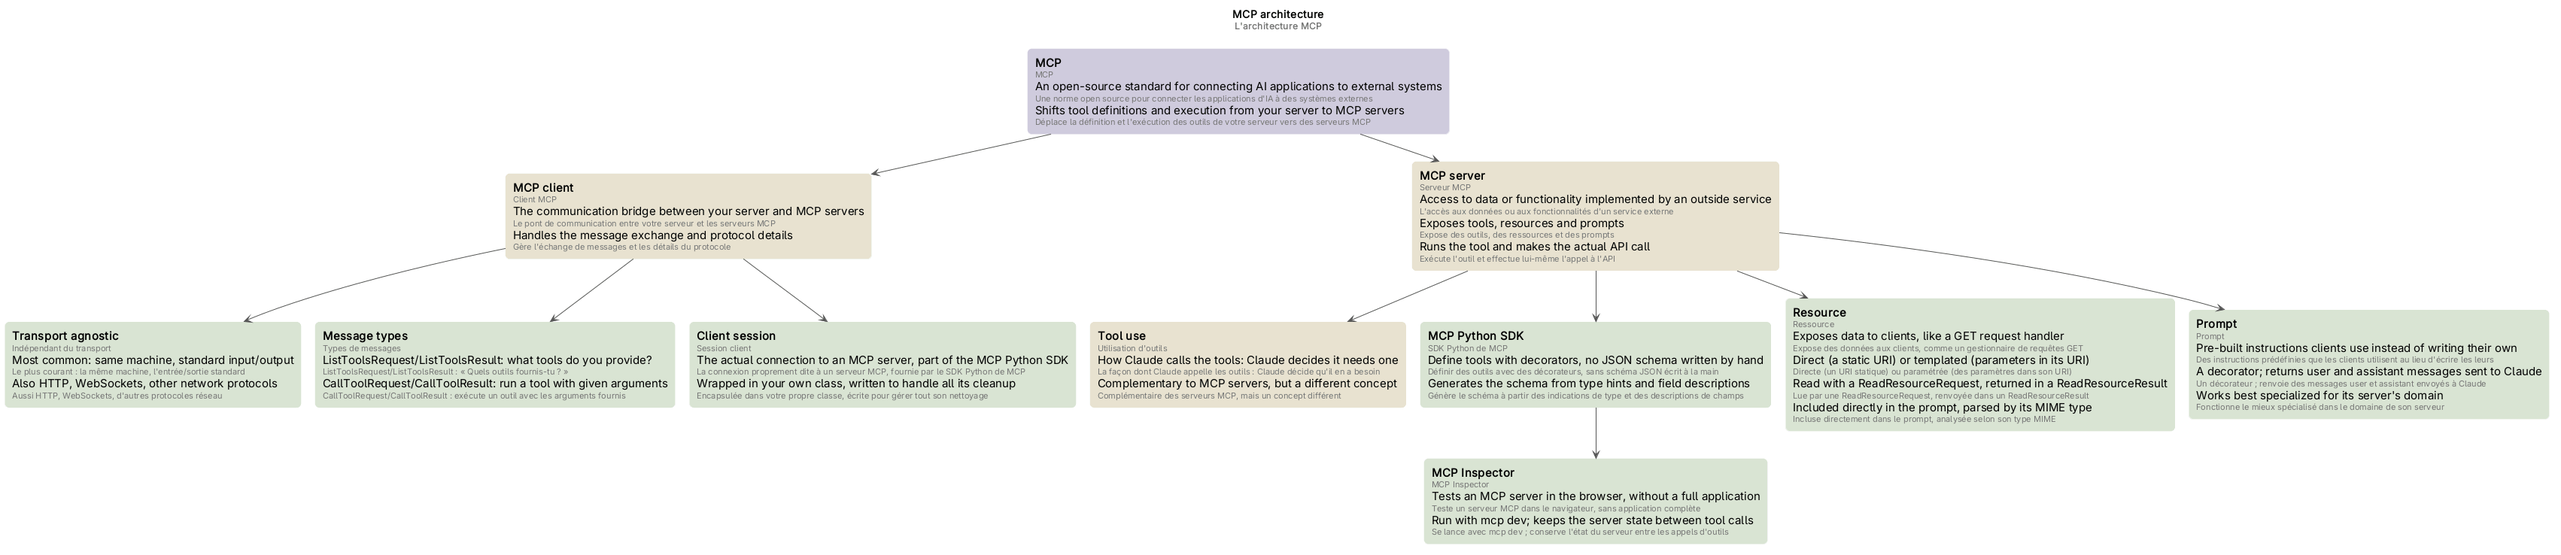
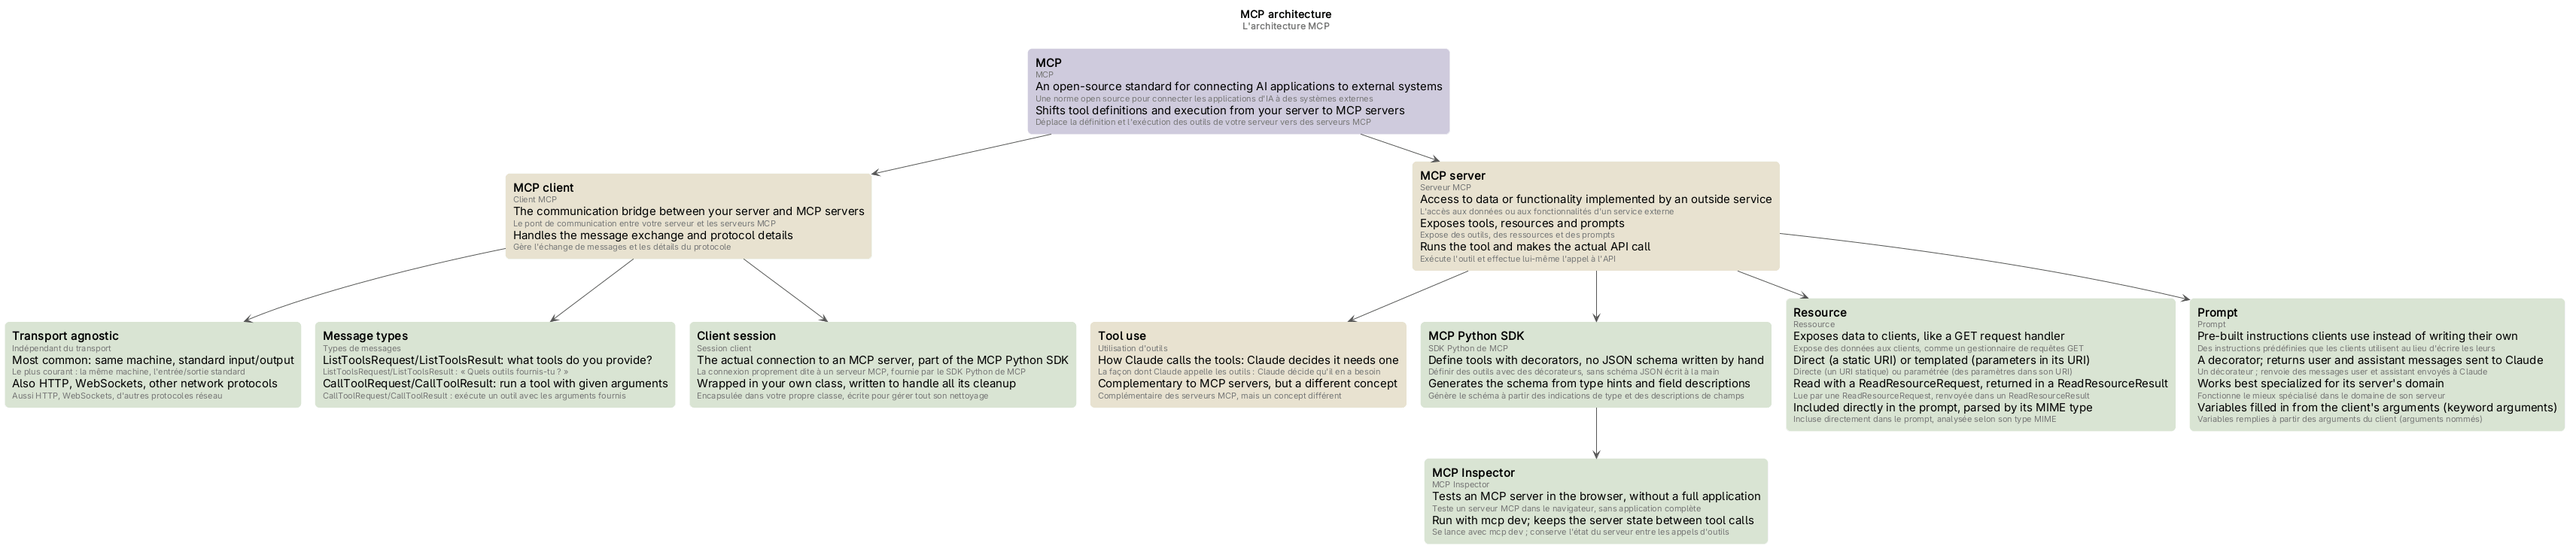
docs: course 08, prompts in the client

diff --git a/08-introduction-to-model-context-protocol/index.md b/08-introduction-to-model-context-protocol/index.md
@@ -46,7 +46,7 @@ One of the three basic components of an [MCP server](#mcp-server-serveur-mcp): r
 
 ### Prompt *(Prompt)*
 
-One of the three basic components of an [MCP server](#mcp-server-serveur-mcp): prompts provide pre-built instructions to language models, for pre-defined workflows. Specialized prompts are the page's example of the workflows an AI application can connect to through [MCP](#mcp-mcp). Prompts in MCP servers let you define pre-built, high-quality instructions that clients can use instead of writing their own prompts from scratch: carefully crafted templates that give better results than what users might come up with on their own. Users can already ask Claude to do most tasks directly, but they get much better results from a thoroughly tested, specialized prompt that handles edge cases and follows best practices: as the MCP server author, you can spend time crafting, testing and evaluating prompts that work consistently across different scenarios, and users benefit from this expertise without having to become prompt engineering experts. With the [MCP Python SDK](#mcp-python-sdk-sdk-python-de-mcp), prompts use a [decorator](#decorator-décorateur) pattern similar to tools and resources, `@mcp.prompt(…)`, with a name and, optionally, a description; the function returns a list of messages that get sent directly to Claude, and can include multiple user and assistant messages to create more complex conversation flows. The [MCP Inspector](#mcp-inspector-mcp-inspector) shows exactly what messages will be sent to Claude, including how variables get interpolated into the prompt template, before users start relying on it. Key benefits: consistency (users get reliable results every time), expertise (domain knowledge encoded into prompts), reusability (multiple client applications can use the same prompts), maintenance (update prompts in one place to improve all clients). Prompts work best when they are specialized for your MCP server's domain: a document management server might have prompts for formatting, summarizing or analyzing documents. The course's example: a format command, `/format doc_id`, whose pre-built prompt has Claude read a document and rewrite it in Markdown.
+One of the three basic components of an [MCP server](#mcp-server-serveur-mcp): prompts provide pre-built instructions to language models, for pre-defined workflows. Specialized prompts are the page's example of the workflows an AI application can connect to through [MCP](#mcp-mcp). Prompts in MCP servers let you define pre-built, high-quality instructions that clients can use instead of writing their own prompts from scratch: carefully crafted templates that give better results than what users might come up with on their own. Users can already ask Claude to do most tasks directly, but they get much better results from a thoroughly tested, specialized prompt that handles edge cases and follows best practices: as the MCP server author, you can spend time crafting, testing and evaluating prompts that work consistently across different scenarios, and users benefit from this expertise without having to become prompt engineering experts. With the [MCP Python SDK](#mcp-python-sdk-sdk-python-de-mcp), prompts use a [decorator](#decorator-décorateur) pattern similar to tools and resources, `@mcp.prompt(…)`, with a name and, optionally, a description; the function returns a list of messages that get sent directly to Claude, and can include multiple user and assistant messages to create more complex conversation flows. The [MCP Inspector](#mcp-inspector-mcp-inspector) shows exactly what messages will be sent to Claude, including how variables get interpolated into the prompt template, before users start relying on it. Key benefits: consistency (users get reliable results every time), expertise (domain knowledge encoded into prompts), reusability (multiple client applications can use the same prompts), maintenance (update prompts in one place to improve all clients). Prompts work best when they are specialized for your MCP server's domain: a document management server might have prompts for formatting, summarizing or analyzing documents. The course's example: a format command, `/format doc_id`, whose pre-built prompt has Claude read a document and rewrite it in Markdown. On the client's side, the final step in building the MCP client: list all available prompts from the server, and retrieve specific prompts with variables filled in. Prompts define a set of user and assistant messages that clients can use; they should be high-quality, well-tested and relevant to the MCP server's purpose. The workflow: write and evaluate a prompt relevant to your server's functionality; define it in your MCP server with the `@mcp.prompt` decorator; clients can request it at any time; arguments provided by the client become keyword arguments in your prompt function, and their values get interpolated into the prompt template; the function returns formatted messages ready for the AI model. This creates reusable, parameterized prompts that maintain consistency while allowing customization through variables, useful for complex workflows where the AI should receive properly structured instructions every time. In the course's CLI, the available prompts appear as commands when you type a slash (/).
 
 → [schéma de l'architecture MCP](mindmap/mcp-architecture.png)
 
@@ -112,7 +112,7 @@ The built-in browser-based inspector of the [MCP Python SDK](#mcp-python-sdk-sdk
 
 ### Client session *(Session client)*
 
-The actual connection to an [MCP server](#mcp-server-serveur-mcp), part of the [MCP Python SDK](#mcp-python-sdk-sdk-python-de-mcp). The [MCP client](#mcp-client-client-mcp) of the course's project consists of two main components: the MCP Client, a custom class you create to make using the session easier, and the client session. The client session requires careful resource management: connections must be properly cleaned up when you're done. That's why it is wrapped in your own class that handles all the cleanup automatically (the video: a very common practice, rather than using the client session directly). Through the session, the client implements its two essential functions: `list_tools()` accesses the session, calls its built-in `list_tools()` method and returns the [tools](#tool-outil) from the result; `call_tool()` passes the tool name and the input parameters (provided by Claude) to the server and returns the result (`await self.session().call_tool(tool_name, tool_input)`).
+The actual connection to an [MCP server](#mcp-server-serveur-mcp), part of the [MCP Python SDK](#mcp-python-sdk-sdk-python-de-mcp). The [MCP client](#mcp-client-client-mcp) of the course's project consists of two main components: the MCP Client, a custom class you create to make using the session easier, and the client session. The client session requires careful resource management: connections must be properly cleaned up when you're done. That's why it is wrapped in your own class that handles all the cleanup automatically (the video: a very common practice, rather than using the client session directly). Through the session, the client implements its two essential functions: `list_tools()` accesses the session, calls its built-in `list_tools()` method and returns the [tools](#tool-outil) from the result; `call_tool()` passes the tool name and the input parameters (provided by Claude) to the server and returns the result (`await self.session().call_tool(tool_name, tool_input)`). For [prompts](#prompt-prompt), `list_prompts()` calls the session's list prompts function and returns the prompts (`self.session().list_prompts()`); `get_prompt()` handles variable interpolation: it passes the prompt's name and the arguments to the session (`self.session().get_prompt(prompt_name, args)`) and returns the result's messages.
 
 → [schéma de l'architecture MCP](mindmap/mcp-architecture.png)
 

diff --git a/08-introduction-to-model-context-protocol/mindmap.md b/08-introduction-to-model-context-protocol/mindmap.md
@@ -16,4 +16,4 @@ Les schémas du [glossaire](index.md), un par partie du cours. Chacun est un fic
 
 ![Schéma de l'architecture MCP](mindmap/mcp-architecture.png)
 
-*MCP et ses deux côtés : le client MCP (le pont de communication avec les serveurs MCP, indépendant du transport, ses types de messages ListTools et CallTool, sa session client) et le serveur MCP (l'accès à un service externe, ses outils, ressources et prompts, ses ressources directes ou paramétrées lues par ReadResourceRequest et incluses directement dans le prompt selon leur type MIME, ses prompts prédéfinis renvoyant des messages user et assistant, le SDK Python de MCP pour définir ses outils, et son MCP Inspector pour les tester), et l'utilisation d'outils à côté, complémentaire mais différente.* Source : [mcp-architecture.puml](mindmap/mcp-architecture.puml)
+*MCP et ses deux côtés : le client MCP (le pont de communication avec les serveurs MCP, indépendant du transport, ses types de messages ListTools et CallTool, sa session client) et le serveur MCP (l'accès à un service externe, ses outils, ressources et prompts, ses ressources directes ou paramétrées lues par ReadResourceRequest et incluses directement dans le prompt selon leur type MIME, ses prompts prédéfinis renvoyant des messages user et assistant, leurs variables remplies à partir des arguments du client, le SDK Python de MCP pour définir ses outils, et son MCP Inspector pour les tester), et l'utilisation d'outils à côté, complémentaire mais différente.* Source : [mcp-architecture.puml](mindmap/mcp-architecture.puml)
